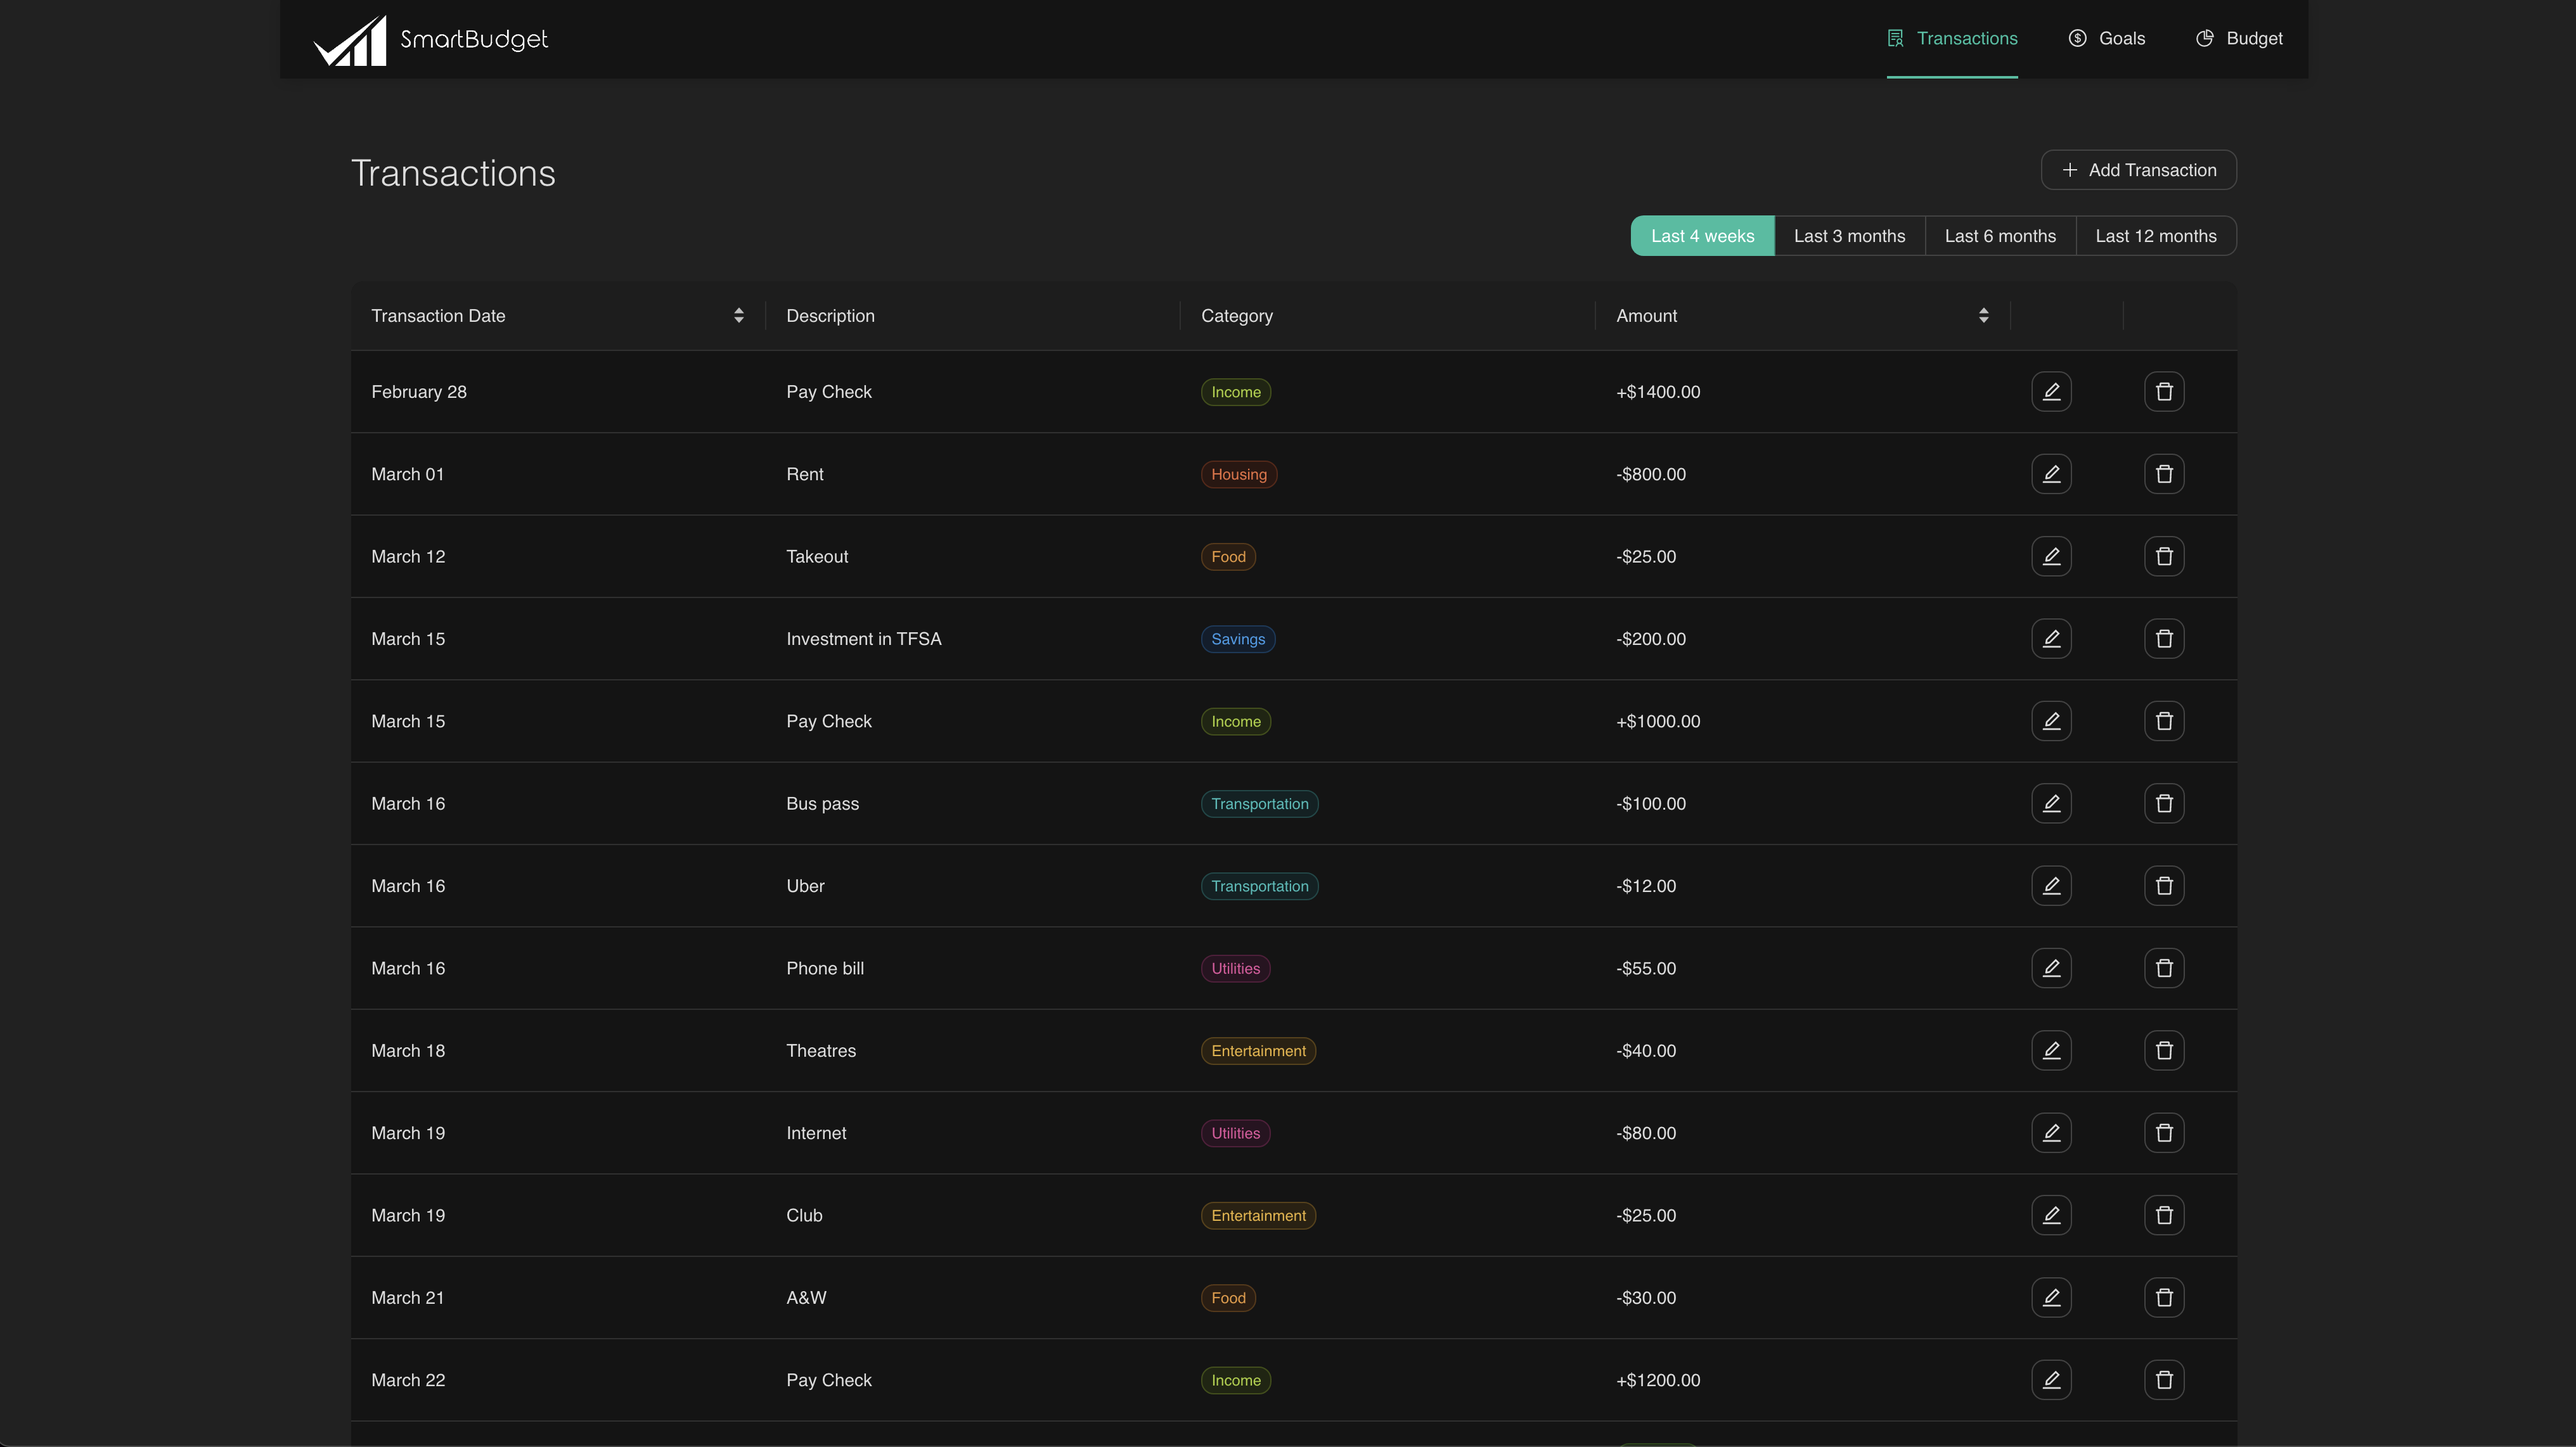
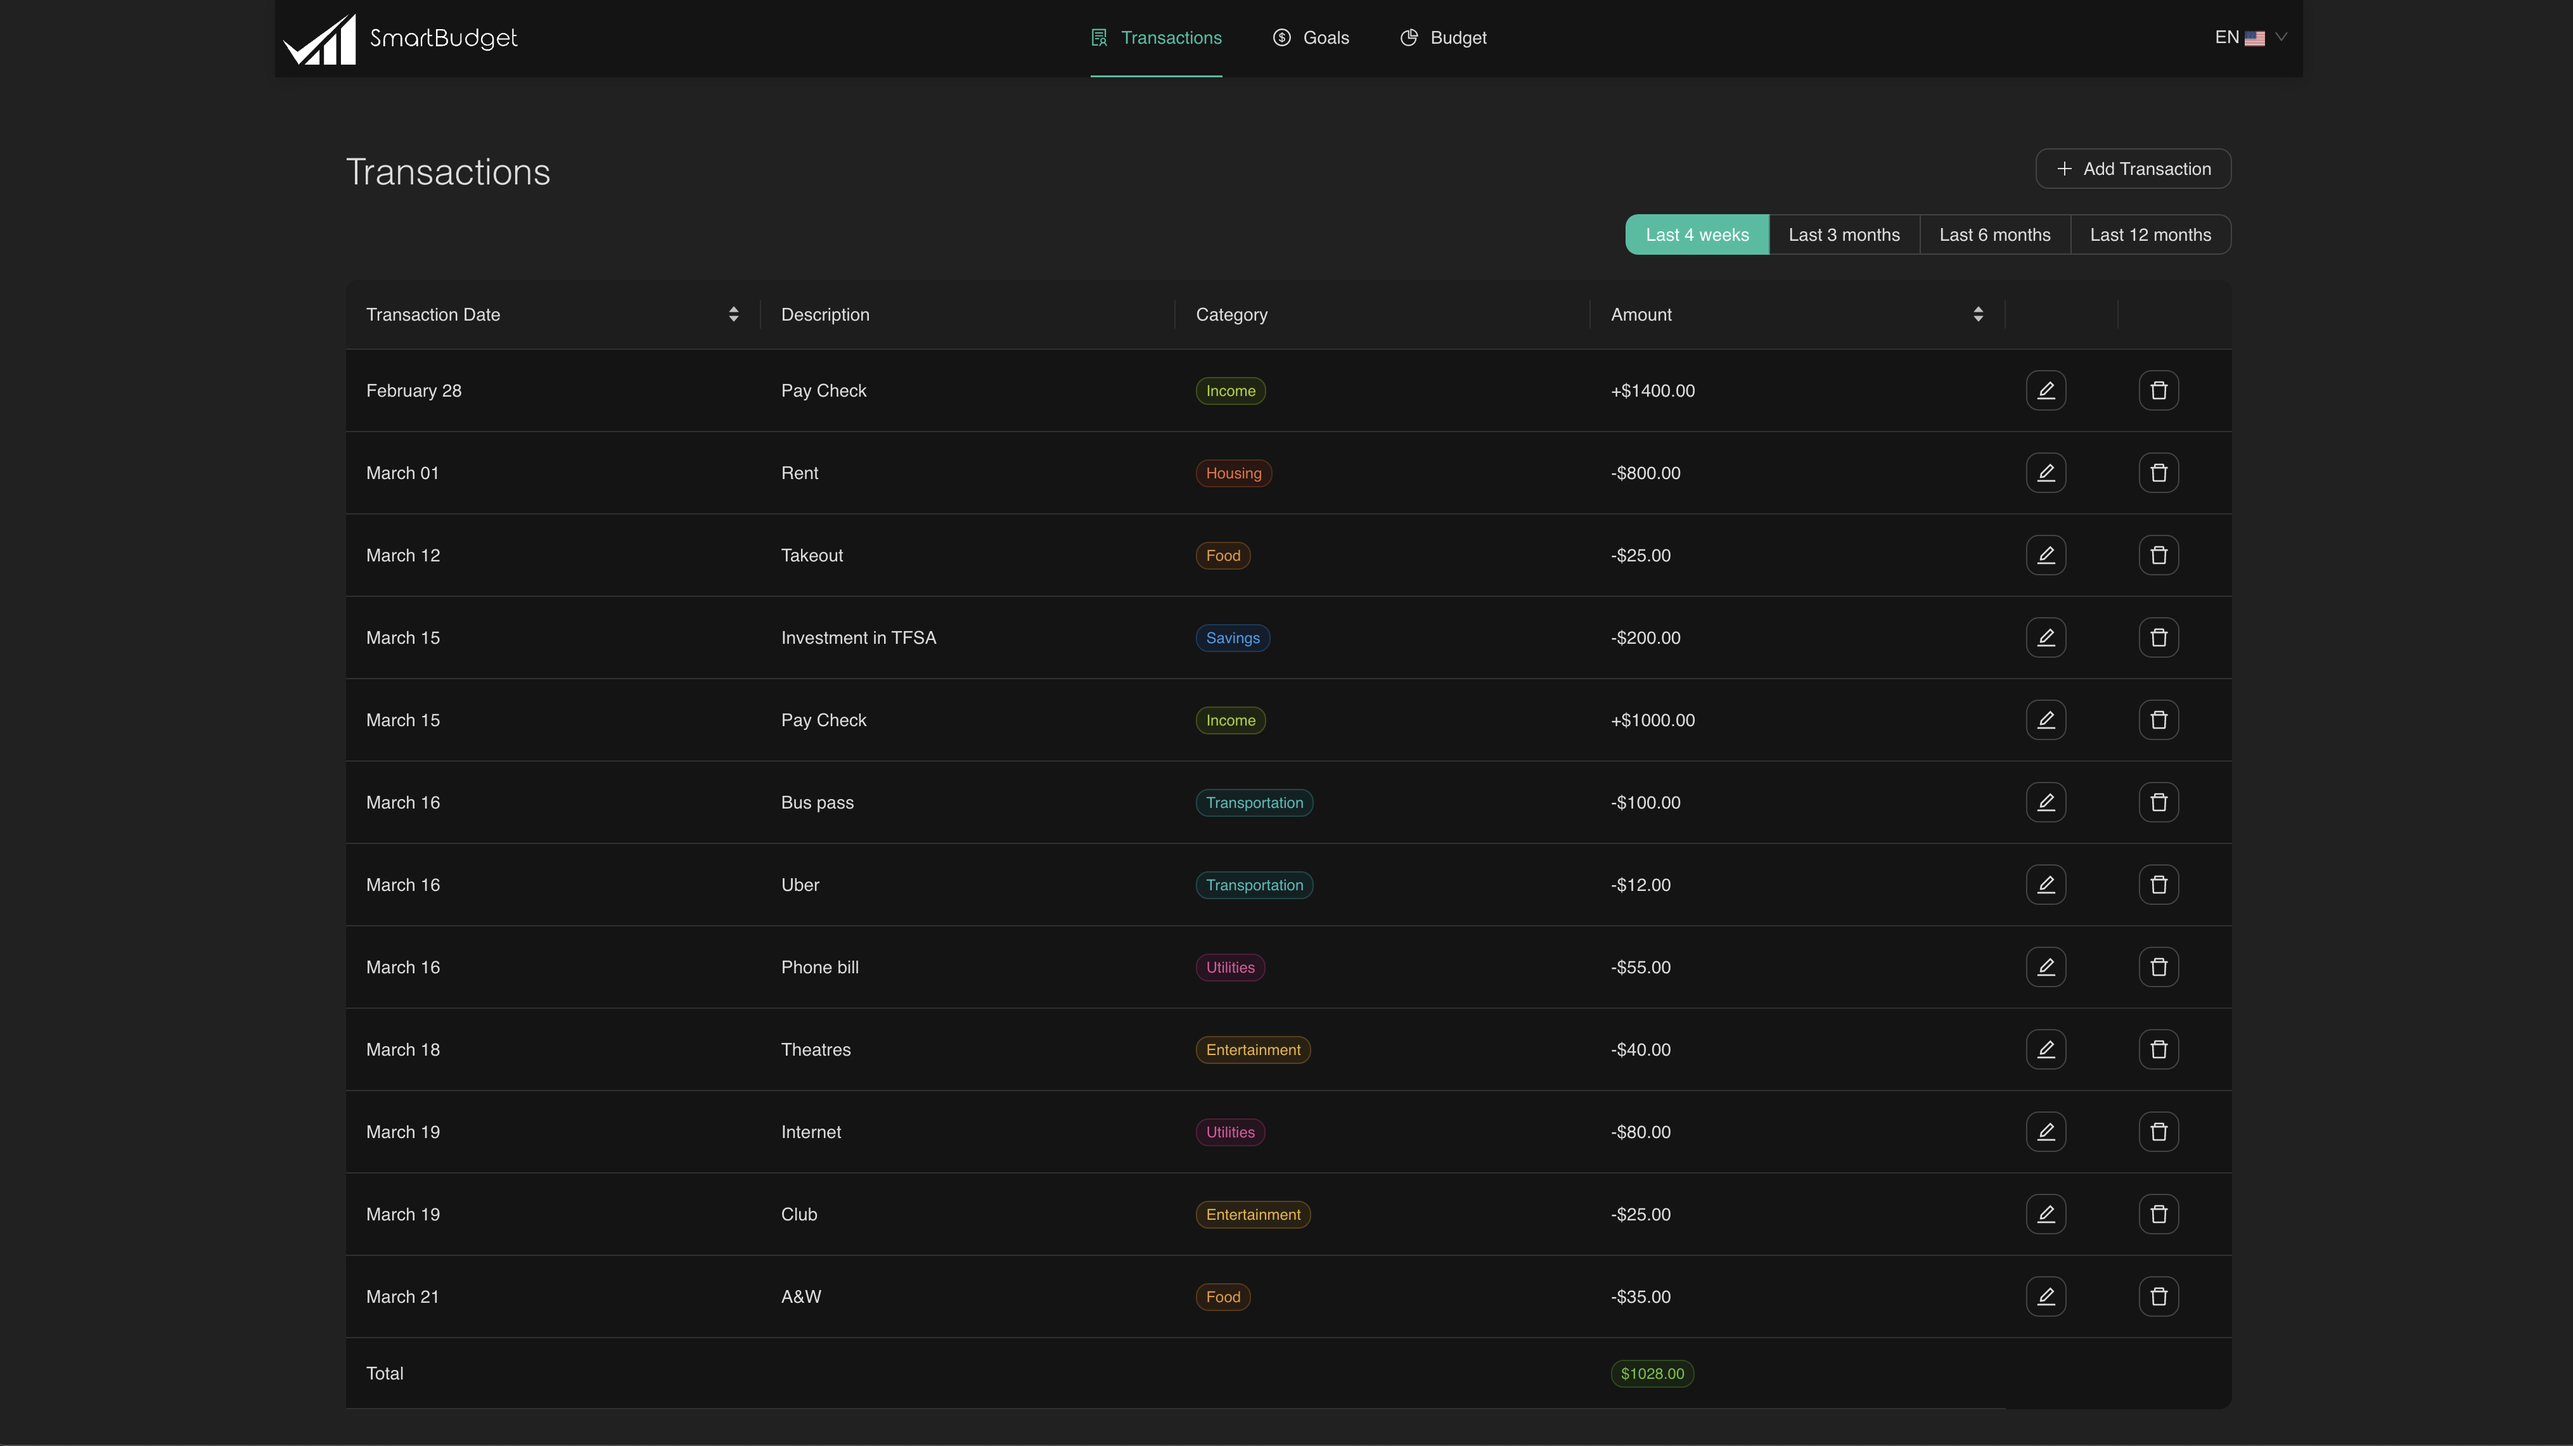
updated README

diff --git a/SmartBudget/README.md b/SmartBudget/README.md
@@ -1,8 +1,8 @@
-# SEG 3125 - Lab 8
+# SEG 3125 - Lab 9
 
 ## Smart Budget
 
-SmartBudget is a budgeting app which allows users to track their income, spending, and progress towards goals. Using this information, SmartBudget creates expense breakdowns and provides analytics.
+SmartBudget is a budgeting app which allows users to track their income, spending, and progress towards goals. Using this information, SmartBudget creates expense breakdowns and provides analytics. Includes bilingual support in both English and French.
 
 ## Demo
 
